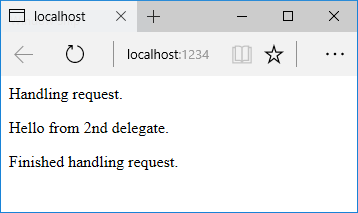
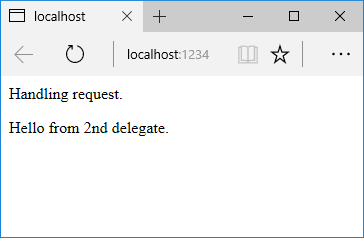
fix

diff --git a/aspnetcore/fundamentals/middleware/sample/Chain/Startup.cs b/aspnetcore/fundamentals/middleware/sample/Chain/Startup.cs
@@ -15,7 +15,7 @@ namespace Chain
             {
                 await context.Response.WriteAsync("Handling request. <p>");
                 await next.Invoke();
-                await context.Response.WriteAsync("Finished handling request.");
+                // Do logging or other work that doesn't write to the Response.
             });
 
             app.Run(async context =>

diff --git a/aspnetcore/fundamentals/middleware.md b/aspnetcore/fundamentals/middleware.md
@@ -34,34 +34,15 @@ The ASP.NET request pipeline consists of a sequence of request delegates, called
 
 ![Request processing pattern showing a request arriving, processing through three middlewares, and the response leaving the application. Each middleware runs its logic and hands off the request to the next middleware at the next() statement. After the third middleware processes the request, it's handed back through the prior two middlewares for additional processing after the next() statements each in turn before leaving the application as a response to the client.](middleware/_static/request-delegate-pipeline.png)
 
-Each delegate has the opportunity to perform operations before and after the next delegate. Any delegate can choose to stop passing the request on to the next delegate, and instead handle the request itself. This is referred to as short-circuiting the request pipeline, and is desirable because it allows unnecessary work to be avoided. For example, an authorization middleware might only call the next delegate if the request is authenticated; otherwise it could short-circuit the pipeline and return a "Not Authorized" response. Exception handling delegates need to be called early on in the pipeline, so they are able to catch exceptions that occur in deeper calls within the pipeline.
+Each delegate has the opportunity to perform operations before and after the next delegate. A delegate can decide to not pass a request to the next delegate -- this is referred to as short-circuiting the request pipeline.  Short-circuiting is often desirable because it allows unnecessary work to be avoided. For example, an authorization middleware might only call the next delegate if the request is authenticated; otherwise it could short-circuit the pipeline and return a "Not Authorized" response. Exception handling delegates need to be called early on in the pipeline, so they are able to catch exceptions that occur in later stages of the pipeline.
 
-You can see an example of setting up the request pipeline in the default web site template that ships with Visual Studio. The `Configure` method adds the following middleware components:
-
-1. Error handling (for both development and non-development environments)
-2. Static file server
-3. Authentication
-4. MVC
-
-[!code-csharp[Main](../common/samples/WebApplication1/Startup.cs?highlight=8,9,10,14,17,19,21&start=58&end=84)]
-
-In the code above (in non-development environments), `UseExceptionHandler` is the first middleware added to the pipeline, therefore will catch any exceptions that occur in later calls.
-
-The `static file module` provides no authorization checks. Any files served by it, including those under *wwwroot* are publicly available. If you want to serve files based on authorization:
-
-1. Store them outside of *wwwroot* and any directory accessible to the static file middleware.
-
-2. Deliver them through a controller action, returning a `FileResult` where authorization is applied.
-
-A request that is handled by the static file module will short circuit the pipeline. (see [Working with Static Files](static-files.md).) If the request is not handled by the static file module, it's passed on to the `Identity module`, which performs authentication. If the request is not authenticated, the pipeline is short circuited. If the request does not fail authentication, the last stage of this pipeline is called, which is the MVC framework.
-
-The simplest possible ASP.NET application sets up a single request delegate that handles all requests. In this case, there isn't really a request "pipeline", so much as a single anonymous function that is called in response to every HTTP request.
+The simplest possible ASP.NET Core app sets up a single request delegate that handles all requests. In this case, there isn't really a request "pipeline", rather a single anonymous function that is called in response to every HTTP request.
 
 [!code-csharp[Main](middleware/sample/Middleware/Startup.cs)]
 
-The first `App.Run` delegate terminates the pipeline. 
+The first [app.Run](https://docs.microsoft.com/en-us/aspnet/core/api/microsoft.aspnetcore.builder.runextensions) delegate terminates the pipeline. 
 
-You chain multiple request delegates together with ``app.Use``. The `next` parameter represents the next delegate in the pipeline. You can terminate (short-circuit) the pipeline by *not* calling the *next* parameter. You can typically perform actions both before and after the next delegate, as this example demonstrates:
+You chain multiple request delegates together with [app.Use](https://docs.microsoft.com/en-us/aspnet/core/api/microsoft.aspnetcore.builder.useextensions). The `next` parameter represents the next delegate in the pipeline. You can terminate (short-circuit) the pipeline by *not* calling the *next* parameter. You can typically perform actions both before and after the next delegate, as this example demonstrates:
 
 [!code-csharp[Main](middleware/sample/Chain/Startup.cs?name=snippet1)]
 
@@ -72,13 +53,21 @@ You chain multiple request delegates together with ``app.Use``. The `next` param
 
 ## Ordering
 
-With few exceptions, the order middleware components are added in the `Configure` method is the order in which they are invoked on requests, and the reverse order for the response. <!-- what are the exceptions and why? I'm guessing authentication --> This ordering is critical for security, performance, and functionality. In the code below, exception handling must be registered before other middleware components in order to catch exceptions thrown by those components. The static file middleware is called early in the pipeline so it can handle requests and short circuit without going through the remaining components. The authentication middleware (`UseIdentity`) is added before anything that handles requests for secure resources. 
+With few exceptions, the order middleware components are added in the `Configure` method is the order in which they are invoked on requests, and the reverse order for the response. <!-- what are the exceptions and why? I'm guessing authentication --> This ordering is critical for security, performance, and functionality. 
+
+The Configure method (shown below) adds the following middleware components:
+
+1. Error handling (for both development and non-development environments)
+2. Static file server
+3. Authentication
+4. MVC
 
 ```csharp
 public void Configure(IApplicationBuilder app)
 {
     app.UseExceptionHandler("/Home/Error"); // Call first to catch exceptions 
                                             // thrown in the following middleware.
+
     app.UseStaticFiles();                   // Return static files and end pipeline.
 
     app.UseIdentity();                     // Authenticate before you access
@@ -87,6 +76,12 @@ public void Configure(IApplicationBuilder app)
     app.UseMvcWithDefaultRoute();          // Add MVC to the request pipeline.
 }
 ```
+
+In the code above, `UseExceptionHandler` is the first middleware added to the pipeline -- therefore it will catch any exceptions that occur in later calls.
+
+The static file middleware is called early in the pipeline so it can handle requests and short circuit without going through the remaining components. The `static file module` provides no authorization checks. Any files served by it, including those under *wwwroot* are publicly available. See [Working with static files](xref:fundamentals/static-files) for an approach to secure static files.
+
+If the request is not handled by the static file module, it's passed on to the `Identity module`(`app.UseIdentity`), which performs authentication. If the request is not authenticated, the pipeline is short circuited. Authenticated requests are past to the last stage with is the MVC framework.
 
 The following example demonstrates a middleware ordering where requests for static files are  handled by the static file middleware before the response compression middleware. Static files are not compressed with this ordering of the middleware. The MVC responses from [UseMvcWithDefaultRoute](https://docs.microsoft.com/en-us/aspnet/core/api/microsoft.aspnetcore.builder.mvcapplicationbuilderextensions#Microsoft_AspNetCore_Builder_MvcApplicationBuilderExtensions_UseMvcWithDefaultRoute_Microsoft_AspNetCore_Builder_IApplicationBuilder_) can be compressed.
 
@@ -106,8 +101,7 @@ public void Configure(IApplicationBuilder app)
 
 You configure the HTTP pipeline using `Run`, `Map`,  and `Use`. The `Run` method short circuits the pipeline (that is, it will not call a `next` request delegate). `Run` is a convention, and some middleware components may expose `Run<Middleware>` methods that run at the end of the pipeline. 
 
-`Map*` extensions are used as a convention for branching the pipeline. Branching is based on the request's path or evaluating a predicate. The `Map` extension method is used to match request delegates based on a request's path. `Map` accepts a path and a function that configures a separate middleware pipeline. 
-
+`Map*` extensions are used as a convention for branching the pipeline. Branching is based on the request's path or evaluating a predicate. The [Map](https://docs.microsoft.com/en-us/aspnet/core/api/microsoft.aspnetcore.builder.mapextensions) extension method is used to match request delegates based on a request's path. `Map` accepts a path and a function that configures a separate middleware pipeline. 
 
 [!code-csharp[Main](middleware/sample/Chain/StartupMap.cs?name=snippet1)]
 
@@ -119,8 +113,6 @@ The following table shows the requests and responses from `http://localhost:1234
 | localhost:1234/map1 | Map Test 1 |
 | localhost:1234/map2 | Map Test 2 |
 | localhost:1234/map3 | Hello from non-Map delegate.  |
-
-
 
 When `Map` is used, the matched path segment(s) are removed from `HttpRequest.Path` and appended to `HttpRequest.PathBase` for each request.
 
@@ -171,7 +163,7 @@ Middleware is generally encapsulated in a class and exposed with an extension me
 
 [!code-csharp[Main](middleware/sample/Culture/StartupCulture.cs?name=snippet1)]
 
-Note: The sample code above is used to demonstrate write a middleware component. See [
+Note: The sample code above is used to demonstrate creating a middleware component. See [
 Globalization and localization](xref:fundamentals/localization) for ASP.NET Core's built-in  localization support.
 
 You can test the middleware by passing in the culture, for example `http://localhost:7997/?culture=no`.
